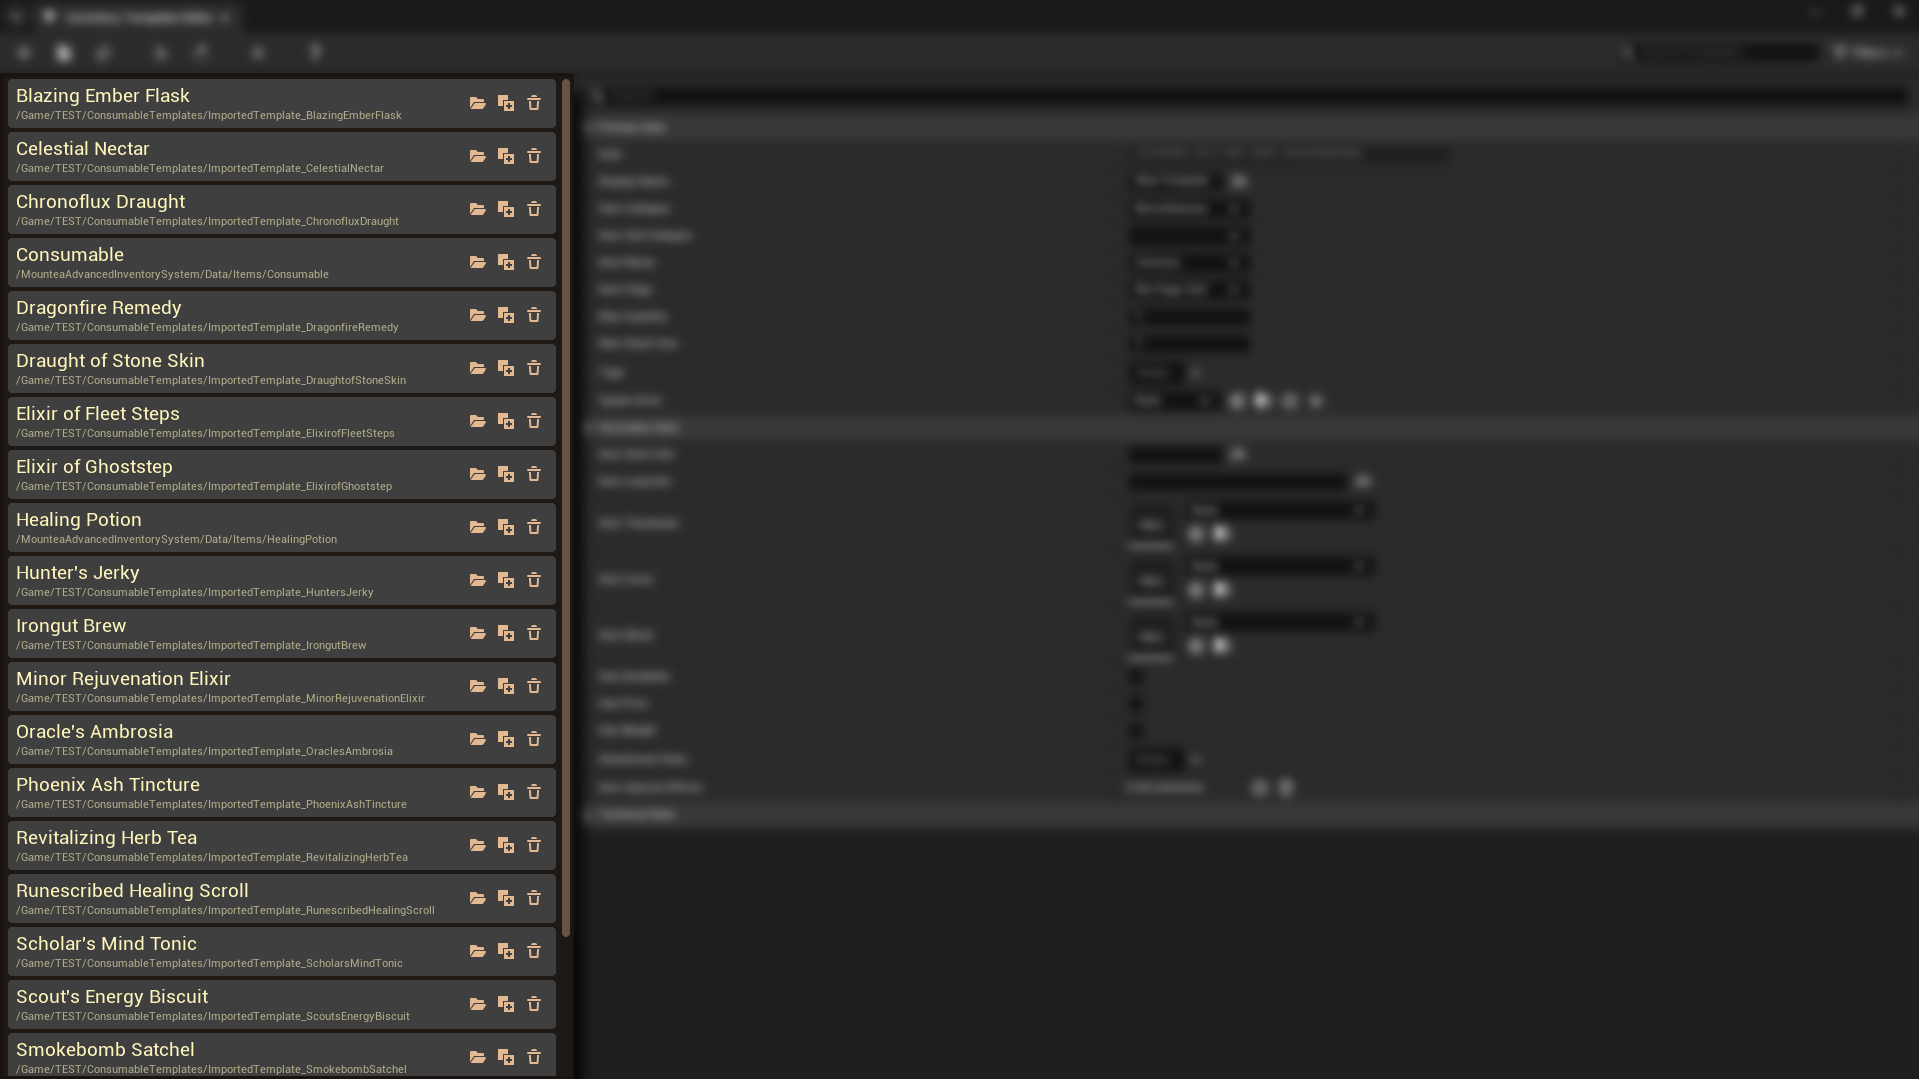
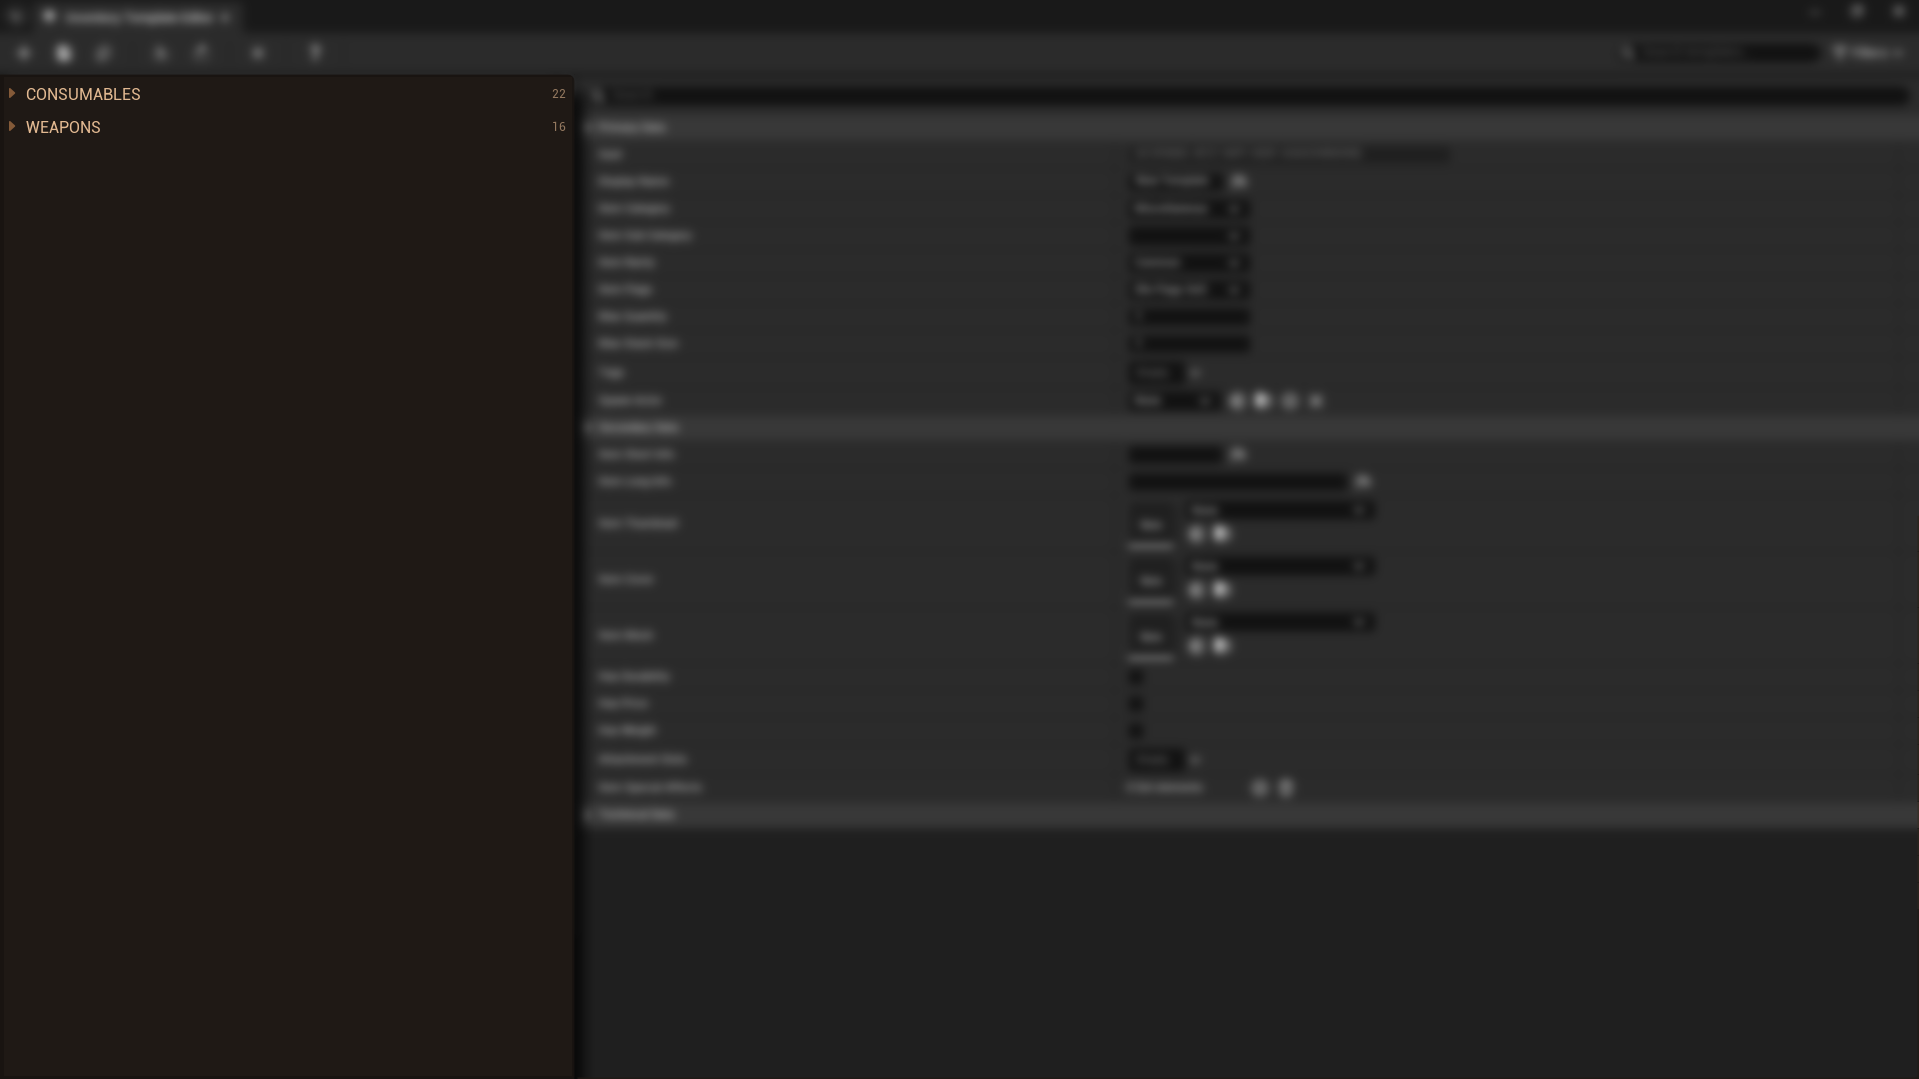
Updated documentation to reflect new UX

Changed region(s): [[0.0, 0.0612, 0.3075, 1.0]]

diff --git a/Resources/Help/page_0.html b/Resources/Help/page_0.html
@@ -54,10 +54,18 @@
 								including all Project folders and plugins.
 							</li>
 							<li>Each entry also displays its asset path under the name</li>
+							<li>Items are divided to categories for convenience</li>
 							<p>
 								<img
 									src="item_template_editor_left_panel.webp"
-									alt="Toolbar of the Item Template Editor"
+									alt="Toolbar of the Item Template Editor (closed)"
+								/>
+							</p>
+
+							<p>
+								<img
+									src="item_template_editor_left_panel.webp"
+									alt="Toolbar of the Item Template Editor (opened)"
 								/>
 							</p>
 						</ul>
